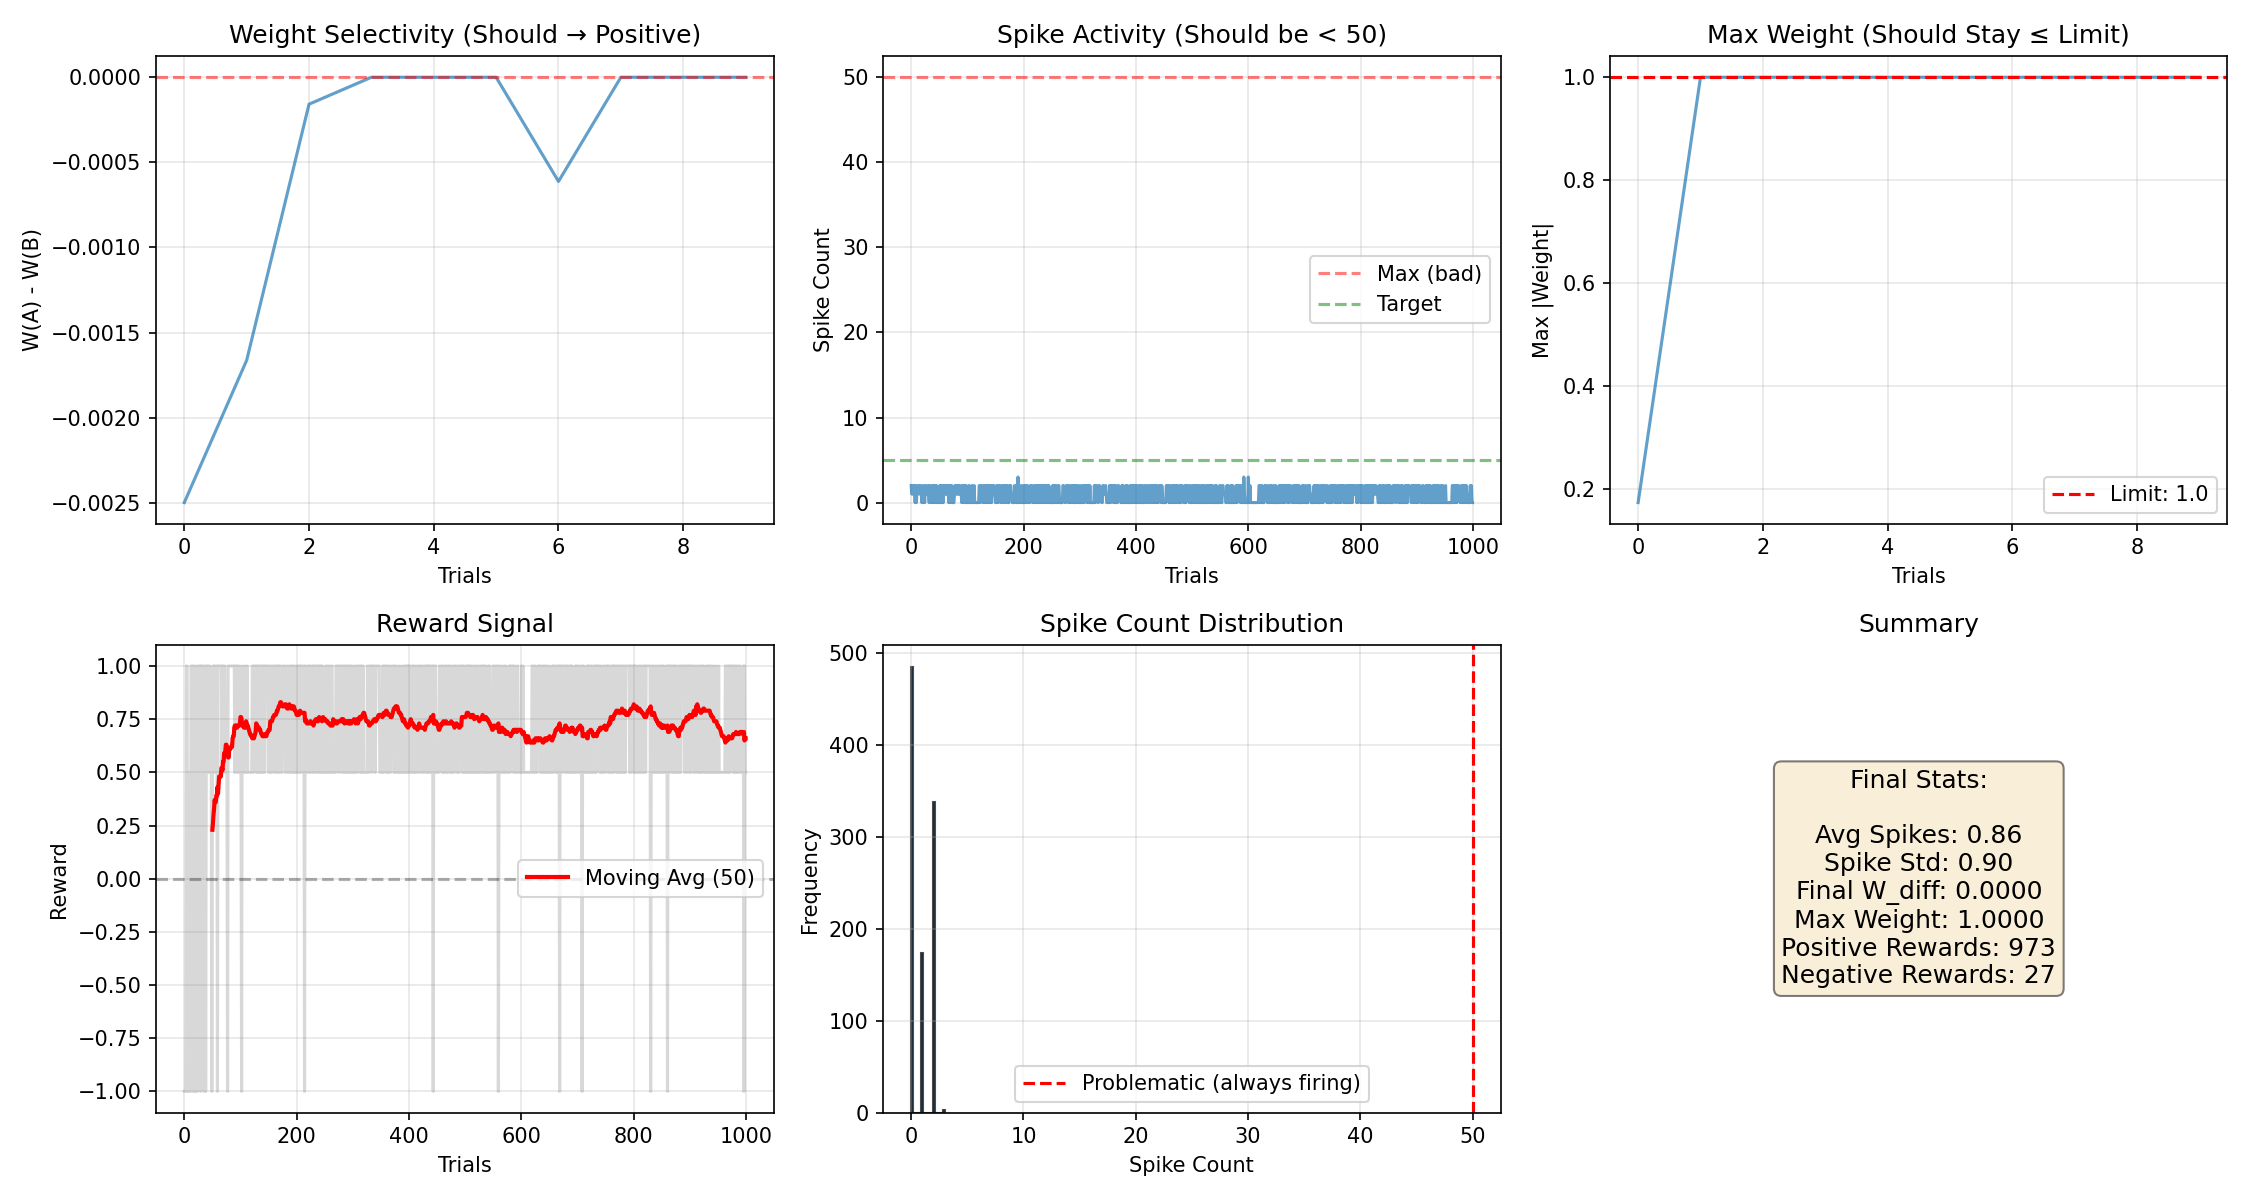
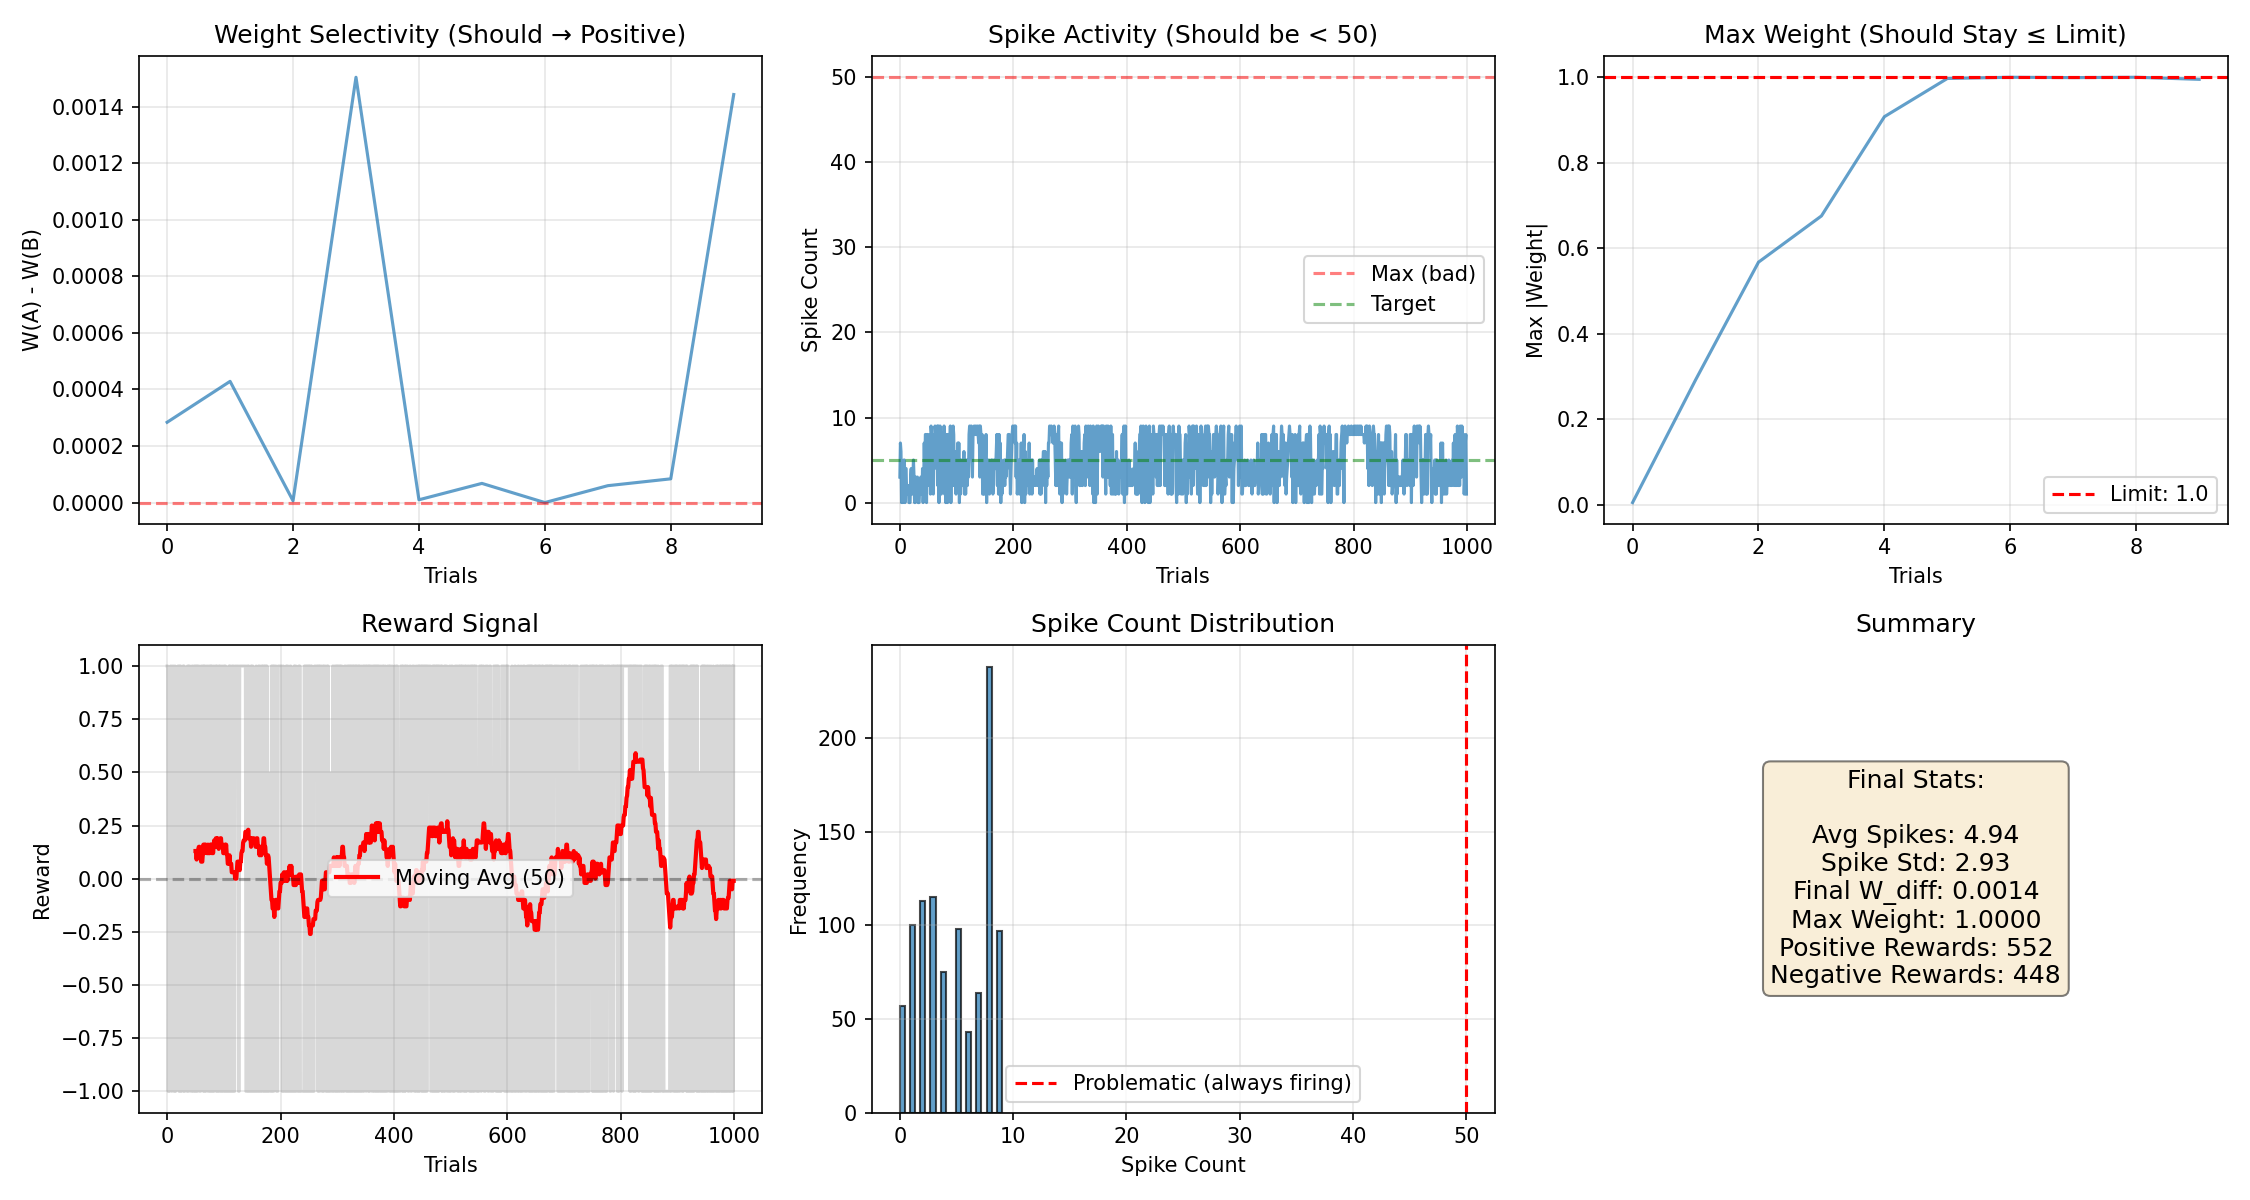
SNN

diff --git a/deep_pavlov.py b/deep_pavlov.py
@@ -10,16 +10,16 @@ from CNS.mechanisms.snn_synapse import Synapse
 def test_pavlov_unified():
     print("開始巴甫洛夫測試(Deep)...")
 
-    n_neurons1 = 256
-    n_neurons2 = 128
-    n_neurons3 = 64
+    n_neurons1 = 4096
+    n_neurons2 = 2048
+    n_neurons3 = 1024
     decision_neuron_idx = 0
     n_steps = 1000
     device = torch.device("cuda" if torch.cuda.is_available() else "cpu")
     save_path = "deep_snn.png"
 
-    input_gain = 10.0
-    noise_level = 10.0
+    input_gain = 100.0
+    noise_level = 2.0
     learning_rate = 0.001
     max_weight = 1.0
 
@@ -141,15 +141,16 @@ def test_pavlov_unified():
             opt_bridge2_3.step(modulation_deltas=synapse_deltas)
             opt_l3_recurrent.step(modulation_deltas=synapse_deltas)
             total_decision_spikes += spikes3[:, decision_neuron_idx].sum()
-            reward = compute_reward(total_decision_spikes, is_pattern_A)
-            dopamine.update(influx=reward)
-
+            
+        reward = compute_reward(total_decision_spikes, is_pattern_A)
+        dopamine.update(influx=reward)
         spike_counts.append(total_decision_spikes.item())
         rewards_history.append(reward)
 
         if trial % 100 == 0:
             v_mean = layer2.v.mean().item()
             input_mean = input_current_2.mean().item()
+            v_mean = layer2.v
             print(
                 f"DEBUG: L2 Input Current: {input_mean:.2f}, L2 Voltage: {v_mean:.2f}"
             )

diff --git a/CNS/mechanisms/snn_network.py b/CNS/mechanisms/snn_network.py
@@ -97,7 +97,7 @@ class IzhikevichLayer(nn.Module):
             self.reset_state(total_input_current.shape[0], total_input_current.device)
         prev_spike = self.pre_spike if self.pre_spike is not None else torch.zeros_like(self.post_spike)
 
-        current_bias = 0.0
+        current_bias = 10.0
         current_d = self.d
         current_b = self.b
         if neuromodulation_deltas:
@@ -109,21 +109,17 @@ class IzhikevichLayer(nn.Module):
                 current_b = self.b + neuromodulation_deltas["b"]
 
         I = total_input_current + current_bias
-
         if self.synapse:
             recurrent_current = self.synapse(prev_spike, self.v)
             I = I + recurrent_current
-        
 
         d_calcium = (-self.calcium / self.tau_ca) * self.dt + self.post_spike * self.ca_spike
         self.calcium = self.calcium + d_calcium
 
         # v' = 0.04v^2 + 5v + 140 - u + I
-        v_safe = torch.clamp(self.v, min=-100.0, max=30.0)
-        dv = 0.04 * v_safe**2 + 5 * v_safe + 140 - self.u + I
-        dv = torch.clamp(dv, min=-100.0, max=30.0)
+        dv = 0.04 * self.v**2 + 5 * self.v + 140 - self.u + I
         v_next = self.v + self.dt * dv
-        v_next = torch.clamp(v_next, min=-100.0, max=30.0)
+        v_next = torch.clamp(v_next, min=-100.0, max=100.0)
 
         # u' = a(bv - u)
         du = self.a * (current_b * self.v - self.u)

diff --git a/CNS/mechanisms/snn_synapse.py b/CNS/mechanisms/snn_synapse.py
@@ -36,6 +36,7 @@ class Synapse(nn.Module):
 
         self.weight = nn.Parameter(torch.empty(self.n_post, self.n_pre))
         nn.init.xavier_uniform_(self.weight)
+        self.weight.data *= 0.1
 
         mask = (torch.rand(self.n_post, self.n_pre) < density).float()
         self.register_buffer('mask', mask)
@@ -134,16 +135,16 @@ class Synapse(nn.Module):
 
         g_exc_influx = torch.matmul(delayed_spikes, w_exc.T)
         g_inh_influx = torch.matmul(delayed_spikes, w_inh.T)
-
-        self.g_exc = torch.clamp(self.g_exc * self.decay + g_exc_influx, min=0, max=5)
-        self.g_inh = torch.clamp(self.g_inh * self.decay + g_inh_influx, min=-5, max=0)
+        self.g_exc = torch.clamp(self.g_exc * self.decay + g_exc_influx, min=0, max=50)
+        self.g_inh = torch.clamp(self.g_inh * self.decay + g_inh_influx, min=-50, max=0)
 
         g_inh_abs = self.g_inh.abs()
         I_exc = self.g_exc * (self.e_exc - v_post)
         I_inh = g_inh_abs * (self.e_inh - v_post)
         
         self.I = I_exc + I_inh
-        
+        self.I = torch.clamp(self.I, min=-50.0, max=50.0)
+
         self.I = self.I.detach()
         self.g_exc = self.g_exc.detach()
         self.g_inh = self.g_inh.detach()

diff --git a/CNS/mechanisms/three_factor.py b/CNS/mechanisms/three_factor.py
@@ -64,7 +64,8 @@ class ThreeFactorOptimizer:
 
         # Calcium
         ca = self.post_layer.calcium.detach().mean(dim=0)
-        normalized = (ca - self.theta_d) / (self.theta_p - self.theta_d)
+        epsilon = 1e-6
+        normalized = (ca - self.theta_d) / (self.theta_p - self.theta_d + epsilon)
         ca_modulation = torch.tanh(2 * (normalized - 0.5))
         ca_modulation = ca_modulation.unsqueeze(1)
 
@@ -82,8 +83,8 @@ class ThreeFactorOptimizer:
         if post_spike is None:
             return
         ltp_matrix = torch.einsum('bi, bj -> ij', post_spike, self.pre_trace)
-        ltd_matirx = torch.einsum('bi, bj -> ij', self.post_trace, pre_spike)
-        stdp_update = (self.A_plus * ltp_matrix - self.A_minus * ltd_matirx) / batch_size
+        ltd_matrix = torch.einsum('bi, bj -> ij', self.post_trace, pre_spike)
+        stdp_update = (self.A_plus * ltp_matrix - self.A_minus * ltd_matrix) / batch_size
 
         # E(t) = E(t-1) * decay + STDP(t)
         decay = 0.95

diff --git a/CNS/mechanisms/neuromodulation/dopamine.py b/CNS/mechanisms/neuromodulation/dopamine.py
@@ -18,7 +18,7 @@ class DopamineSystem:
         self.neuron_effects = {}
         self.synapse_effects = {}
 
-        self.add_neuron_effect("input_bias", coefficient=1.0)
+        self.add_neuron_effect("input_bias", coefficient=10.0)
         self.add_synapse_effect("lr_scale", coefficient=1.0)
 
     def add_neuron_effect(self, param_name, coefficient):
@@ -29,7 +29,7 @@ class DopamineSystem:
 
     def update(self, influx):
         self.phasic_da = self.phasic_da * self.phasic_decay + influx
-        self.phasic_da = np.clip(self.phasic_da, -1.0, 1.0)
+        self.phasic_da = np.clip(self.phasic_da, -4.0, 4.0)
 
         self.tonic_da += (self.base_level - self.tonic_da) * (1.0 - self.tonic_decay)
 

diff --git a/pavlov_test.py b/pavlov_test.py
@@ -10,7 +10,7 @@ from CNS.mechanisms.snn_synapse import Synapse
 def test_pavlov_unified():
     print("開始巴甫洛夫測試...")
 
-    n_neurons = 100
+    n_neurons = 1024
     decision_neuron_idx = 0
     n_steps = 1000
     device = torch.device("cuda" if torch.cuda.is_available() else "cpu")
@@ -22,9 +22,10 @@ def test_pavlov_unified():
     max_weight = 1.0
 
     layer = IzhikevichLayer(n_neurons, refractory_steps=5)
-    layer.to(device)
 
     synapse = Synapse(layer)
+
+    layer.to(device)
     synapse.to(device)
 
     layer.synapse = synapse
